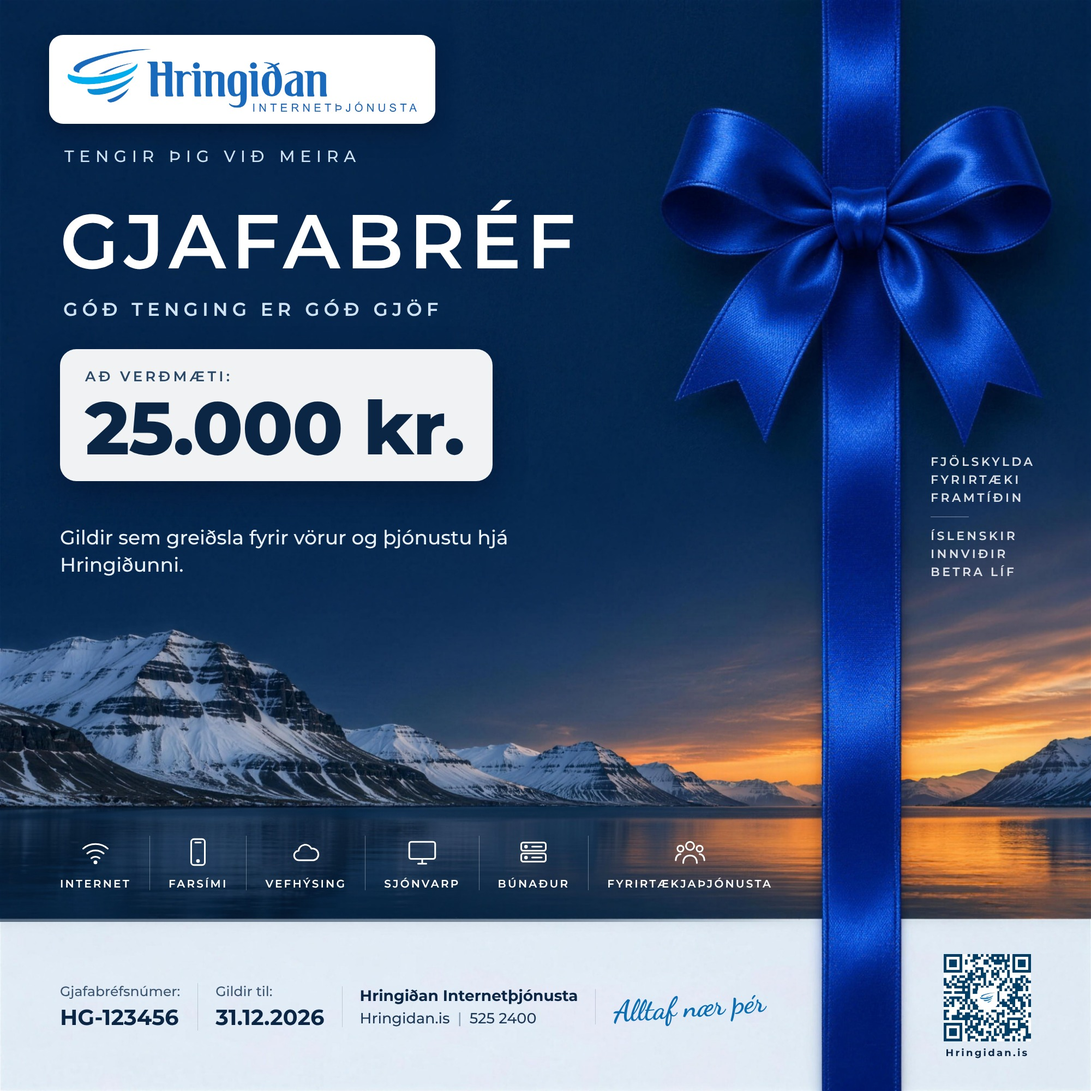
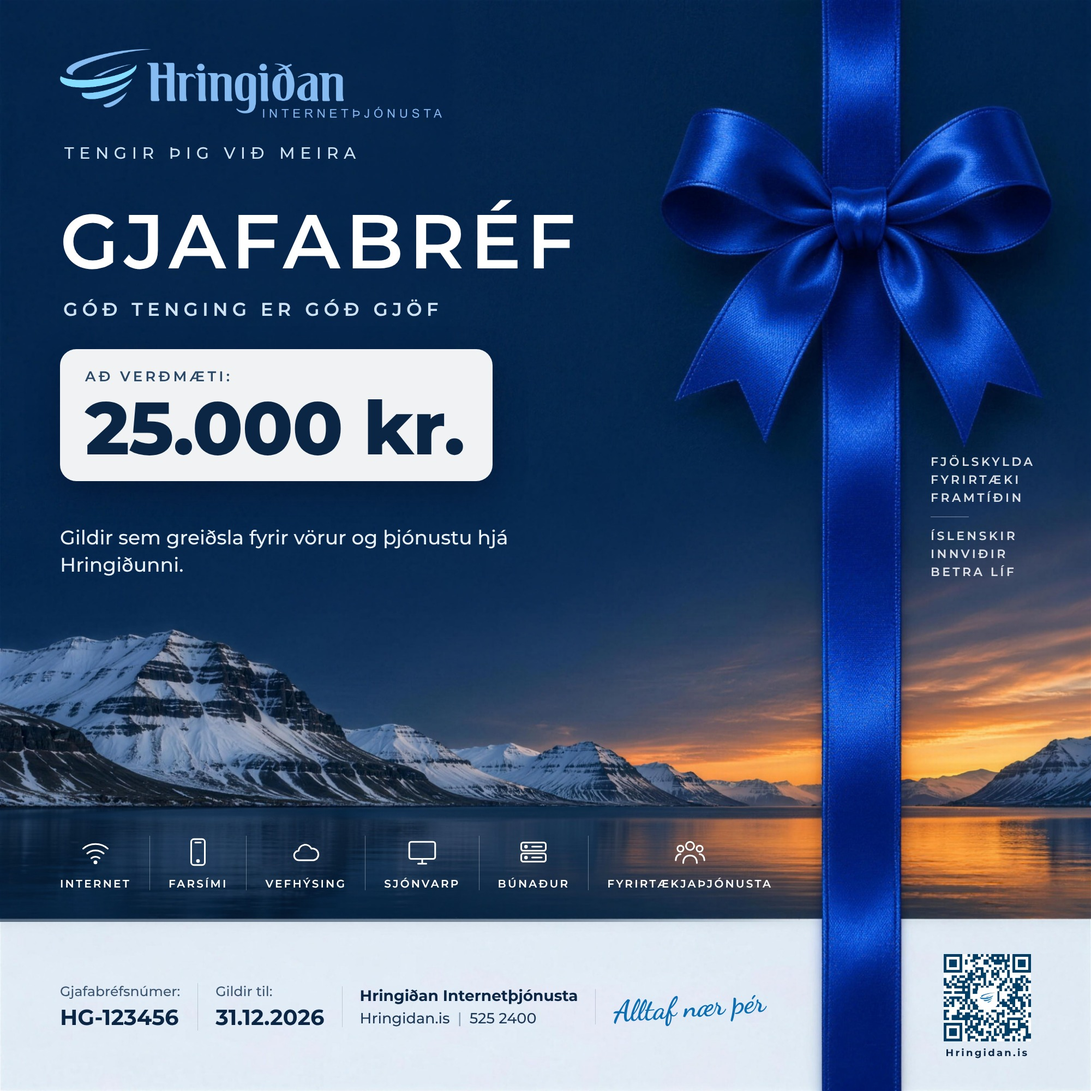
Hringiðan: lýst brand-blátt merki á dökkbláa bandinu
Bandið efst aftur dökkblátt; merkið úr PDF-inu lýst (sami litatónn,
hærri birta) svo það drukkni ekki en haldi bláa litnum. Sama á gjafakorti,
hvíta platan fjarlægð.

Claude-Session: https://claude.ai/code/session_01JAXd2m9cesSq5STdzJxvnq

Changed region(s): [[0.031, 0.031, 0.403, 0.155]]

diff --git a/auglysingar/hringidan/src/hringidan-gjafakort.html b/auglysingar/hringidan/src/hringidan-gjafakort.html
@@ -8,9 +8,8 @@
   .bg img { width: 2000px; height: 2000px; object-fit: cover; display: block; }
   .shade { position: absolute; left: 0; top: 1480px; width: 1480px; height: 210px; pointer-events: none;
            background: linear-gradient(90deg, rgba(8,34,62,.62) 0%, rgba(8,34,62,.45) 70%, rgba(8,34,62,0) 100%); }
-  .plate { position: absolute; left: 90px; top: 64px; padding: 26px 34px 22px; background: #fff; border-radius: 26px; box-shadow: 0 18px 40px rgba(0,10,30,.35); }
-  .logo { display: block; width: 640px; }
-  .tag { position: absolute; left: 118px; top: 268px; font-size: 30px; font-weight: 500; letter-spacing: .32em; color: #CFE3F5; text-transform: uppercase; }
+  .logo { position: absolute; left: 110px; top: 90px; width: 700px; }
+  .tag { position: absolute; left: 118px; top: 262px; font-size: 30px; font-weight: 500; letter-spacing: .32em; color: #CFE3F5; text-transform: uppercase; }
   .corner { position: absolute; left: 1706px; top: 830px; width: 200px; font-size: 22px; font-weight: 600; letter-spacing: .2em; line-height: 1.5; color: rgba(255,255,255,.85); text-transform: uppercase; }
   .corner hr { border: 0; border-top: 1px solid rgba(255,255,255,.45); width: 70px; margin: 18px 0; }
   .title { position: absolute; left: 110px; top: 372px; font-size: 140px; font-weight: 600; letter-spacing: .07em; line-height: 1; text-transform: uppercase; }
@@ -41,7 +40,7 @@
 </style></head><body><div class="ad">
   <div class="bg"><img src="giftbg.jpg" alt=""></div>
   <div class="shade"></div>
-  <div class="plate"><img class="logo" src="logo_lockup_color.png" alt="Hringiðan Internetþjónusta"></div>
+  <img class="logo" src="logo_lockup_light.png" alt="Hringiðan Internetþjónusta">
   <div class="tag">Tengir þig við meira</div>
   <div class="corner">Fjölskylda<br>Fyrirtæki<br>Framtíðin<hr>Íslenskir innviðir<br>Betra líf</div>
   <div class="title">Gjafabréf</div>

diff --git a/auglysingar/hringidan/src/hringidan-gjafabref-2d.html b/auglysingar/hringidan/src/hringidan-gjafabref-2d.html
@@ -3,9 +3,9 @@
 <style>
   @font-face { font-family: 'GreatVibes'; src: url('GreatVibes.woff2') format('woff2'); }
   .ad { background: #05254C; color: #fff; }
-  .head { position: absolute; left: 0; top: 0; width: 2000px; height: 270px; background: #FFFFFF; }
+  .head { position: absolute; left: 0; top: 0; width: 2000px; height: 270px; background: #05254C; }
   .logo { position: absolute; left: 110px; top: 70px; width: 700px; }
-  .gift { position: absolute; right: 110px; top: 34px; font-family: 'GreatVibes', cursive; font-size: 168px; line-height: 1; color: #05254C; }
+  .gift { position: absolute; right: 110px; top: 34px; font-family: 'GreatVibes', cursive; font-size: 168px; line-height: 1; color: #fff; }
   .photo { position: absolute; left: 0; top: 270px; width: 2000px; height: 1010px; overflow: hidden; }
   .photo img { width: 2000px; height: 1010px; display: block; object-fit: cover; object-position: 50% 60%; background: #05254C; }
   .panel { position: absolute; left: 0; right: 0; top: 1200px; bottom: 0; border-radius: 120px 120px 0 0; padding: 90px 110px 0;
@@ -36,7 +36,7 @@
   .seal .small { font-size: 24px; font-weight: 700; letter-spacing: .24em; text-transform: uppercase; margin-top: 10px; }
 </style></head><body><div class="ad">
   <div class="head"></div>
-  <img class="logo" src="logo_lockup_color.png" alt="Hringiðan Internetþjónusta">
+  <img class="logo" src="logo_lockup_light.png" alt="Hringiðan Internetþjónusta">
   <div class="gift">Gjafabréf</div>
   <div class="photo"><img src="illu.png" alt=""></div>
   <div class="panel">

diff --git a/auglysingar/hringidan/src/hringidan-gjafabref-ljosmynd.html b/auglysingar/hringidan/src/hringidan-gjafabref-ljosmynd.html
@@ -3,9 +3,9 @@
 <style>
   @font-face { font-family: 'GreatVibes'; src: url('GreatVibes.woff2') format('woff2'); }
   .ad { background: #05254C; color: #fff; }
-  .head { position: absolute; left: 0; top: 0; width: 2000px; height: 270px; background: #FFFFFF; }
+  .head { position: absolute; left: 0; top: 0; width: 2000px; height: 270px; background: #05254C; }
   .logo { position: absolute; left: 110px; top: 70px; width: 700px; }
-  .gift { position: absolute; right: 110px; top: 34px; font-family: 'GreatVibes', cursive; font-size: 168px; line-height: 1; color: #05254C; }
+  .gift { position: absolute; right: 110px; top: 34px; font-family: 'GreatVibes', cursive; font-size: 168px; line-height: 1; color: #fff; }
   .photo { position: absolute; left: 0; top: 270px; width: 2000px; height: 1010px; overflow: hidden; }
   .photo img { width: 2000px; height: 1010px; display: block; object-fit: cover; object-position: 50% 72%; }
   .panel { position: absolute; left: 0; right: 0; top: 1200px; bottom: 0; border-radius: 120px 120px 0 0; padding: 90px 110px 0;
@@ -36,7 +36,7 @@
   .seal .small { font-size: 24px; font-weight: 700; letter-spacing: .24em; text-transform: uppercase; margin-top: 10px; }
 </style></head><body><div class="ad">
   <div class="head"></div>
-  <img class="logo" src="logo_lockup_color.png" alt="Hringiðan Internetþjónusta">
+  <img class="logo" src="logo_lockup_light.png" alt="Hringiðan Internetþjónusta">
   <div class="gift">Gjafabréf</div>
   <div class="photo"><img src="photo_c.jpg" alt=""></div>
   <div class="panel">

diff --git a/auglysingar/hringidan/README.md b/auglysingar/hringidan/README.md
@@ -1,7 +1,7 @@
 # Hringiðan – Gjafabréf („Komdu þér vel fyrir“)
 
-Endurhönnun á innflutningsgjöf Hringiðunnar sem **gjafabréf**: hvítt band efst með opinbera lógóinu í réttum litum (Hringiðan Internetþjónusta) vinstra megin og „Gjafabréf“
-í skrautskrift í dökkbláu hægra megin, fjölskyldumynd út í kant í kósý stemningu þar sem mamman er í tölvunni og
+Endurhönnun á innflutningsgjöf Hringiðunnar sem **gjafabréf**: dökkblátt band efst (`#05254C`, sami litur og á gjafakortinu) með opinbera lógóinu (Hringiðan Internetþjónusta)
+í lýstum brand-bláum tón vinstra megin og „Gjafabréf“ í skrautskrift hægra megin, fjölskyldumynd út í kant í kósý stemningu þar sem mamman er í tölvunni og
 pabbinn horfir á hana, krakkarnir með spjaldtölvu fyrir framan sófann, ávalur blár textaflötur og innsigli „3 mánuðir frítt“. Innblástur: uppsetning Sýn-póstsins
 (eitt ríkjandi litaþema, stór ávöl form, stuttur og vinalegur texti). Lógó, litir, QR-kóði og tilboð Hringiðunnar halda sér.
 
@@ -11,7 +11,7 @@ pabbinn horfir á hana, krakkarnir með spjaldtölvu fyrir framan sófann, ával
 |---|---|
 | `hringidan-gjafabref-ljosmynd.png` / `.jpg` | **Aðalútgáfa** – ljósmynd. 2000×2000. |
 | `hringidan-gjafabref-2d.png` / `.jpg` | Sama gjafabréfs-rammi með flatri 2D teikningu. 2000×2000. |
-| `hringidan-gjafakort.png` / `.jpg` | Gjafakort (25.000 kr.) í 1:1 eftir fyrirmynd með bláum borða og slaufu yfir íslenskt landslag, með opinbera lógóinu í lit á hvítum fleti. Gjafabréfsnúmer `HG-123456` er sýnishorn. |
+| `hringidan-gjafakort.png` / `.jpg` | Gjafakort (25.000 kr.) í 1:1 eftir fyrirmynd með bláum borða og slaufu yfir íslenskt landslag, með opinbera lógóinu í lýstum brand-bláum tón. Gjafabréfsnúmer `HG-123456` er sýnishorn. |
 | `eldri/` | Fyrri umferðir til viðmiðunar: `hringidan-kosy-*` (fyrsta umferð) og `hringidan-gjafabref-rammi-*` (útgáfa með skrautramma og mynd í spjaldi). |
 | `src/` | Breytanlegar HTML/CSS skrár, leturgerðir (Raleway, Nunito, Montserrat, Great Vibes, Dancing Script), opinbera lógóið úr vektor-PDF frá Hringiðunni (`Hringidan_logo.pdf` → `logo_lockup_white.png` / `logo_lockup_color.png`, með „Internetþjónusta“ sem hluta af merkinu), QR-kóðar og myndir. |
 
@@ -40,8 +40,9 @@ pabbinn horfir á hana, krakkarnir með spjaldtölvu fyrir framan sófann, ával
 
 QR-kóðinn á gjafabréfs-auglýsingunum (`src/qr_is.png`) vísar á `https://hringidan.is/`; á gjafakortinu (`src/qr.png`) á `https://hringidan.is/pontun/`. Hvort tveggja staðfest með afkóðun úr endanlegu myndunum.
 
-Merkið er notað í opinberu litunum; þar sem það á að sitja á dökkum grunni er hvítur flötur undir því svo litirnir haldist
-nákvæmlega eins og í merkinu (hvítt band efst á auglýsingunum, hvít plata á gjafakortinu).
+Merkið situr á dökkum grunni, svo litirnir úr PDF-inu eru lýstir (sami litatónn og mettun, birta færð um 55% í átt að hvítu:
+`#1C63B7` → `#88B7F0`, `#0C8ED8` → `#84D0FB`, `#00ADEF` → `#85DDFF`) í `src/logo_lockup_light.png`. Upprunalegu litirnir eru í
+`src/logo_lockup_color.png` fyrir ljósan grunn.
 
 ## Gjafakortið (1:1)
 
